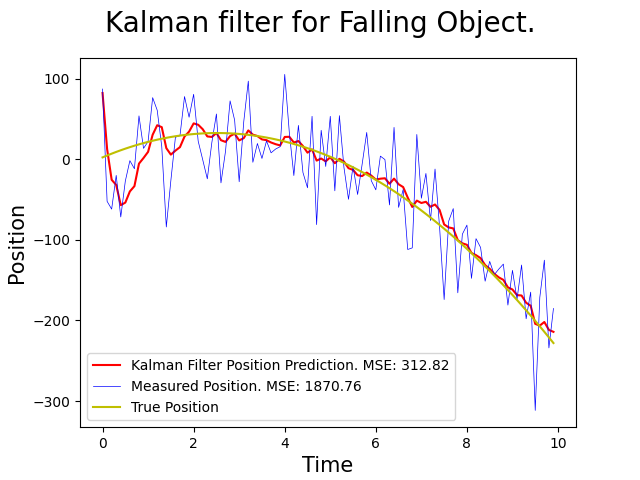
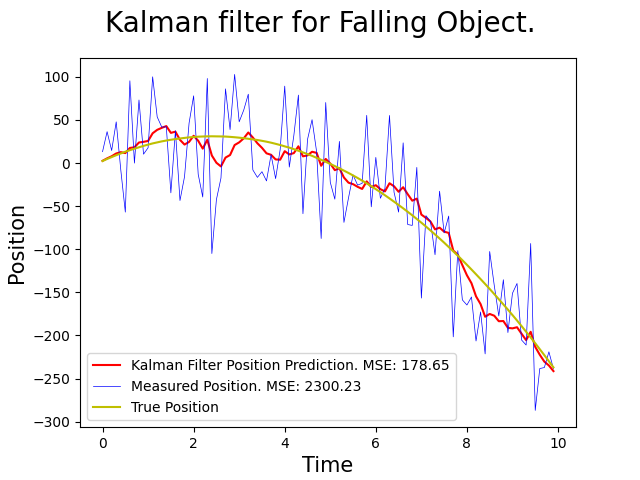
fixed bug with calculating acceleration noise

diff --git a/kalman-filter.py b/kalman-filter.py
@@ -57,14 +57,14 @@ class System:
     def update_true_state(self) -> None:
         """Updates the true state of the system."""
         if self.process_noise() is not None:
-            process_noise = self.process_noise()
+            noise = self.process_noise()
         else:
-            process_nosie = 0
+            nosie = 0
         if self.control_matrix() is not None and self.control_vector() is not None:
             control_update = self.control_matrix() @ self.control_vector()
         else:
             control_update = 0
-        self.state = self.state_transition_matrix() @ self.state + control_update + process_noise
+        self.state = self.state_transition_matrix() @ self.state + control_update + noise
 
     def get_measurement(self) -> np.ndarray:
         """Get an artificial measurement for the given state."""
@@ -127,7 +127,7 @@ class FallingObject(System):
                  initial_velocity: float = 25,
                  dt: float = 0.1,
                  gravity:float = -9.81,
-                 std_acc: float  = 0.25):
+                 std_acc: float  = 10):
         self.dt = dt
         self.gravity = gravity
         self.std_acc = std_acc
@@ -141,12 +141,18 @@ class FallingObject(System):
     
     def process_noise(self) -> np.ndarray:
         """The n x 1 normally distributed process noise w representing noise in the state of the system."""
-        return np.array([[(self.dt)**2 / 2],[self.dt]]) * self.std_acc
+        std_position = self.std_acc * (self.dt)**2 / 2
+        std_velocity = self.dt
+        position_noise = np.random.normal(0, std_position)
+        velocity_noise = np.random.normal(0, std_velocity)
+        return np.array([[position_noise],[velocity_noise]])
 
     def process_noise_cov(self) -> np.ndarray:
         """The n x n covairance uncertainty matrix Q from the environment.
         It is assumed that the process noise w is distributed w ~ N(0,Q)."""
-        return self.process_noise() @ self.process_noise().T
+        std_position = self.std_acc * (self.dt)**2 / 2
+        std_velocity = self.dt
+        return np.array([[std_position**2, std_position*std_velocity],[std_position*std_velocity, std_velocity**2]]) * self.std_acc ** 2
 
     def transformation_matrix(self) -> np.ndarray:
         """The m x n transformation matrix H.
@@ -183,7 +189,7 @@ class HarmonicOscillator(System):
                  mass: float = 2,
                  dampening_coeff: float = 2,
                  spring_constant: float = 20,
-                 std_acc: float = 0.25):
+                 std_acc: float = 10):
         self.dt = dt
         self.mass = mass # m
         self.dampending_coeff = dampening_coeff # b
@@ -203,12 +209,18 @@ class HarmonicOscillator(System):
 
     def process_noise(self) -> np.ndarray:
         """The n x 1 normally distributed process noise w representing noise in the state of the system."""
-        return np.array([[(self.dt)**2 / 2],[self.dt]]) * self.std_acc
+        std_position = self.std_acc * (self.dt)**2 / 2
+        std_velocity = self.dt
+        position_noise = np.random.normal(0, std_position)
+        velocity_noise = np.random.normal(0, std_velocity)
+        return np.array([[position_noise],[velocity_noise]])
 
     def process_noise_cov(self) -> np.ndarray:
         """The n x n covairance uncertainty matrix Q from the environment.
         It is assumed that the process noise w is distributed w ~ N(0,Q)."""
-        return self.process_noise() @ self.process_noise().T 
+        std_position = self.std_acc * (self.dt)**2 / 2
+        std_velocity = self.dt
+        return np.array([[std_position**2, std_position*std_velocity],[std_position*std_velocity, std_velocity**2]]) * self.std_acc ** 2
 
     def transformation_matrix(self) -> np.ndarray:
         """The m x n transformation matrix H.
